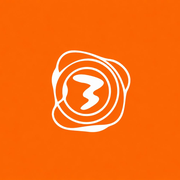
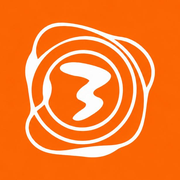
放大 PWA 图标

Changed region(s): [[0.1389, 0.1111, 0.8611, 0.8889], [0.5, 0.5, 0.5278, 0.5278]]

diff --git a/about.html b/about.html
@@ -5,7 +5,7 @@
 <meta name="viewport" content="width=device-width, initial-scale=1.0" />
 <link rel="manifest" href="/manifest.json" />
 <meta name="theme-color" content="#F97316" />
-<link rel="apple-touch-icon" href="/apple-touch-icon.png" />
+<link rel="apple-touch-icon" href="/apple-touch-icon.png?v=2" />
 <meta name="apple-mobile-web-app-capable" content="yes" />
 <meta name="apple-mobile-web-app-title" content="OpenToday" />
 <meta name="mobile-web-app-capable" content="yes" />

diff --git a/explore.html b/explore.html
@@ -5,7 +5,7 @@
 <meta name="viewport" content="width=device-width, initial-scale=1.0" />
 <link rel="manifest" href="/manifest.json" />
 <meta name="theme-color" content="#F97316" />
-<link rel="apple-touch-icon" href="/apple-touch-icon.png" />
+<link rel="apple-touch-icon" href="/apple-touch-icon.png?v=2" />
 <meta name="apple-mobile-web-app-capable" content="yes" />
 <meta name="apple-mobile-web-app-title" content="OpenToday" />
 <meta name="mobile-web-app-capable" content="yes" />

diff --git a/index.html b/index.html
@@ -5,7 +5,7 @@
 <meta name="viewport" content="width=device-width, initial-scale=1.0" />
 <link rel="manifest" href="/manifest.json" />
 <meta name="theme-color" content="#F97316" />
-<link rel="apple-touch-icon" href="/apple-touch-icon.png" />
+<link rel="apple-touch-icon" href="/apple-touch-icon.png?v=2" />
 <meta name="apple-mobile-web-app-capable" content="yes" />
 <meta name="apple-mobile-web-app-title" content="OpenToday" />
 <meta name="mobile-web-app-capable" content="yes" />

diff --git a/pricing.html b/pricing.html
@@ -5,7 +5,7 @@
 <meta name="viewport" content="width=device-width, initial-scale=1.0" />
 <link rel="manifest" href="/manifest.json" />
 <meta name="theme-color" content="#F97316" />
-<link rel="apple-touch-icon" href="/apple-touch-icon.png" />
+<link rel="apple-touch-icon" href="/apple-touch-icon.png?v=2" />
 <meta name="apple-mobile-web-app-capable" content="yes" />
 <meta name="apple-mobile-web-app-title" content="OpenToday" />
 <meta name="mobile-web-app-capable" content="yes" />

diff --git a/submit.html b/submit.html
@@ -5,7 +5,7 @@
 <meta name="viewport" content="width=device-width, initial-scale=1.0" />
 <link rel="manifest" href="/manifest.json" />
 <meta name="theme-color" content="#F97316" />
-<link rel="apple-touch-icon" href="/apple-touch-icon.png" />
+<link rel="apple-touch-icon" href="/apple-touch-icon.png?v=2" />
 <meta name="apple-mobile-web-app-capable" content="yes" />
 <meta name="apple-mobile-web-app-title" content="OpenToday" />
 <meta name="mobile-web-app-capable" content="yes" />

diff --git a/business.html b/business.html
@@ -5,7 +5,7 @@
 <meta name="viewport" content="width=device-width, initial-scale=1">
 <link rel="manifest" href="/manifest.json" />
 <meta name="theme-color" content="#F97316" />
-<link rel="apple-touch-icon" href="/apple-touch-icon.png" />
+<link rel="apple-touch-icon" href="/apple-touch-icon.png?v=2" />
 <meta name="apple-mobile-web-app-capable" content="yes" />
 <meta name="apple-mobile-web-app-title" content="OpenToday" />
 <meta name="mobile-web-app-capable" content="yes" />
